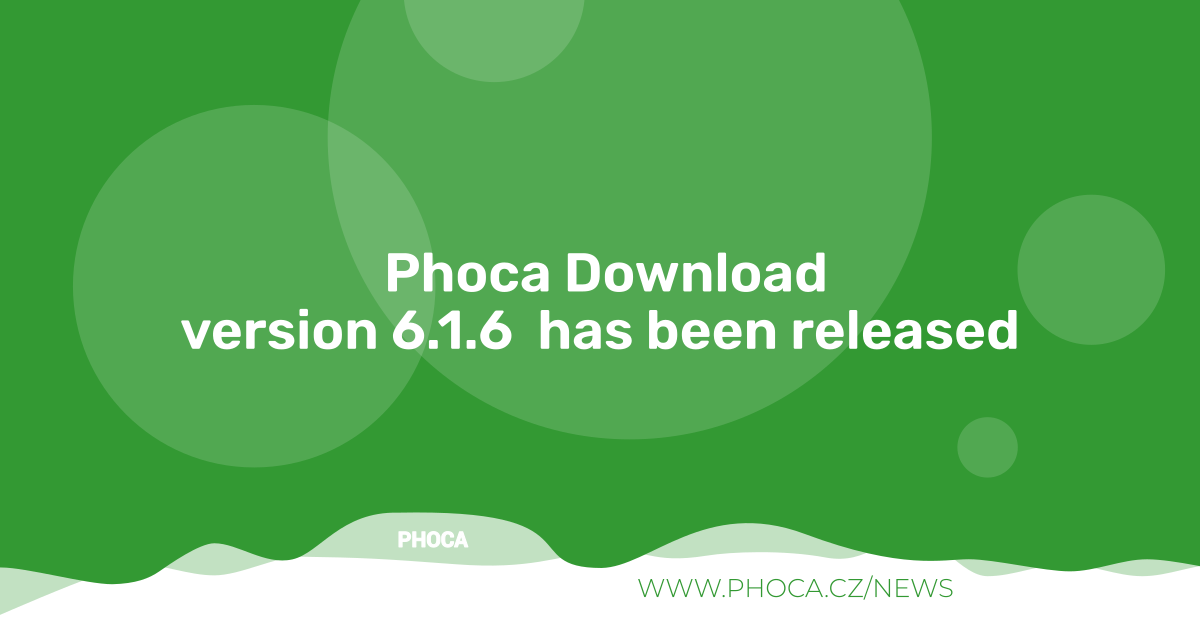
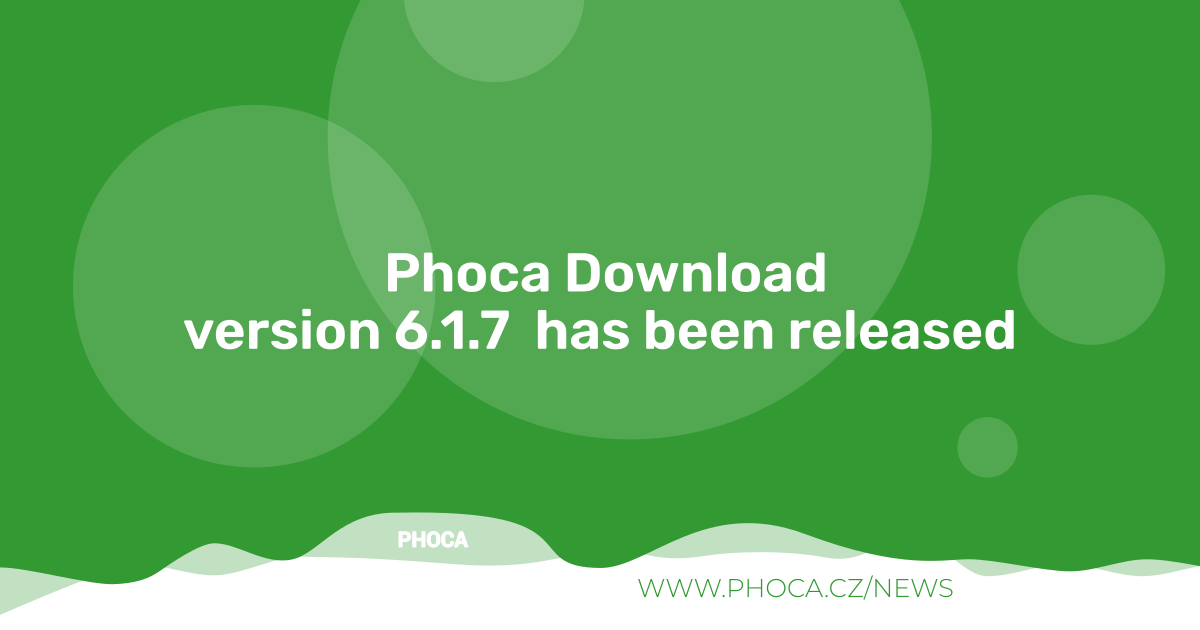
6.1.7

Changed region(s): [[0.1542, 0.4825, 0.8633, 0.573]]

diff --git a/site/views/category/tmpl/categorytree.php b/site/views/category/tmpl/categorytree.php
@@ -1,0 +1,119 @@
+<?php
+defined('_JEXEC') or die('Restricted access');
+
+use Joomla\CMS\HTML\HTMLHelper;
+use Joomla\CMS\Language\Text;
+use Joomla\CMS\Router\Route;
+use Joomla\CMS\Factory;
+
+echo '<div id="phoca-dl-category-box" class="pd-category-view'.$this->t['p']->get('pageclass_sfx').'">';
+echo PhocaDownloadRenderFront::renderHeader(array());
+
+if ($this->t['description'] !== '' && in_array(2, $this->t['display_main_description'])) {
+	echo '<div class="pd-desc">'.$this->t['description'].'</div>';
+}
+
+$category = $this->category[0] ?? null;
+$this->checkRights = 1;
+
+if ($category) {
+	$canAccessCategory = PhocaDownloadAccess::getUserRight(
+		'accessuserid',
+		$category->cataccessuserid,
+		$category->cataccess,
+		$this->t['user']->getAuthorisedViewLevels(),
+		$this->t['user']->get('id', 0),
+		0
+	);
+
+	if ($canAccessCategory === 1) {
+		$this->checkRights = 0;
+		$layout = new PhocaDownloadLayout();
+
+		echo '<div class="pd-category">';
+		echo PhocaDownloadRenderFront::renderSubHeader(array($category->title), '', 'pd-ctitle');
+
+		if ((int) $category->published === 2 && $layout->isValueEditor($category->archived_description)) {
+			echo '<div class="pd-cdesc">'.HTMLHelper::_('content.prepare', $category->archived_description).'</div>';
+		}
+
+		if ($layout->isValueEditor($category->description)) {
+			echo '<div class="pd-cdesc">'.HTMLHelper::_('content.prepare', $category->description).'</div>';
+		}
+
+		$appInput = Factory::getApplication()->getInput();
+		$hiddenSubcategories = $appInput->get('hide_subcategories', null, 'array');
+		$showOnlySubcategories = $appInput->get('show_only_subcategories', null, 'array');
+
+		if ($hiddenSubcategories === null) {
+			$hiddenSubcategories = $this->t['p']->get('hide_subcategories', []);
+		}
+		if ($showOnlySubcategories === null) {
+			$showOnlySubcategories = $this->t['p']->get('show_only_subcategories', []);
+		}
+
+		$normalizeCategoryIds = static function ($categoryIds) {
+			if (!is_array($categoryIds)) {
+				$categoryIds = explode(',', (string) $categoryIds);
+			}
+
+			return array_filter(array_map('intval', $categoryIds), static function ($categoryId) {
+				return $categoryId > 0;
+			});
+		};
+
+		$hiddenSubcategories = array_fill_keys($normalizeCategoryIds($hiddenSubcategories), true);
+		$showOnlySubcategories = array_fill_keys($normalizeCategoryIds($showOnlySubcategories), true);
+		$visibleSubcategories = array_filter(
+			is_array($this->subcategories) ? $this->subcategories : [],
+			static function ($subcategory) use ($hiddenSubcategories, $showOnlySubcategories) {
+				$subcategoryId = (int) $subcategory->id;
+				$isIncluded = empty($showOnlySubcategories) || isset($showOnlySubcategories[$subcategoryId]);
+
+				return $isIncluded && !isset($hiddenSubcategories[$subcategoryId]);
+			}
+		);
+
+		if (!empty($visibleSubcategories)) {
+			echo '<div class="row row-cols-1 row-cols-md-3 g-4 pd-category-subcategories">';
+
+			foreach ($visibleSubcategories as $subcategory) {
+				if (PhocaDownloadAccess::getUserRight(
+					'accessuserid',
+					$subcategory->cataccessuserid,
+					$subcategory->cataccess,
+					$this->t['user']->getAuthorisedViewLevels(),
+					$this->t['user']->get('id', 0),
+					0
+				) !== 1) {
+					continue;
+				}
+
+				echo '<div class="col"><div class="card h-100"><div class="card-body">';
+				echo '<h3 class="card-title"><a href="'.Route::_(PhocaDownloadRoute::getCategoryRoute($subcategory->id, $subcategory->alias)).'">'.htmlspecialchars($subcategory->title, ENT_QUOTES, 'UTF-8').'</a></h3>';
+
+				if ((int) $this->t['p']->get('display_num_doc_secs', 0) === 1) {
+					echo '<p class="card-text"><small>('.(int) $subcategory->numdoc.')</small></p>';
+				}
+
+				echo '</div></div></div>';
+			}
+
+			echo '</div><div class="pd-hr-cb"></div>';
+		}
+
+		include __DIR__.'/default_files.php';
+		if (!empty($this->category)) {
+			include __DIR__.'/default_pagination.php';
+		}
+
+		echo '</div>';
+	} else {
+		echo '<h3>'.Text::_('COM_PHOCADOWNLOAD_CATEGORY').'</h3>';
+		echo '<div class="alert alert-danger">'.Text::_('COM_PHOCADOWNLOAD_NO_RIGHTS_ACCESS_CATEGORY').'</div>';
+	}
+}
+
+echo $this->t['bootstrapmodal'];
+echo '</div><div class="pd-cb">&nbsp;</div>';
+echo PhocaDownloadUtils::getInfo();

diff --git a/site/views/user/tmpl/default_files.php b/site/views/user/tmpl/default_files.php
@@ -312,11 +312,11 @@ if ($this->t['errorcatid'] != '') {
 
 		<tr>
 			<td><strong><?php echo Text::_( 'COM_PHOCADOWNLOAD_FILE_TITLE' ); ?>:</strong></td>
-			<td><input type="text" id="phocadownload-upload-title" name="phocadownloaduploadtitle" value="<?php echo $this->t['formdata']->title ?>"  maxlength="255" class="form-control comment-input" /></td>
+			<td><input type="text" id="phocadownload-upload-title" name="phocadownloaduploadtitle" value="<?php echo htmlspecialchars($this->t['formdata']->title, ENT_QUOTES, 'UTF-8') ?>"  maxlength="255" class="form-control comment-input" /></td>
 		</tr>
 		<tr>
 			<td><strong><?php echo Text::_( 'COM_PHOCADOWNLOAD_DESCRIPTION' ); ?>:</strong></td>
-			<td><textarea id="phocadownload-upload-description" name="phocadownloaduploaddescription" onkeyup="countCharsUpload();" rows="7" class="form-control comment-input pd-comment-input"><?php echo $this->t['formdata']->description ?></textarea></td>
+			<td><textarea id="phocadownload-upload-description" name="phocadownloaduploaddescription" onkeyup="countCharsUpload();" rows="7" class="form-control comment-input pd-comment-input"><?php echo htmlspecialchars($this->t['formdata']->description, ENT_QUOTES, 'UTF-8') ?></textarea></td>
 		</tr>
 		<tr>
 			<td>&nbsp;</td>
@@ -326,11 +326,11 @@ if ($this->t['errorcatid'] != '') {
 
 		<tr>
 			<td><strong><?php echo Text::_( 'COM_PHOCADOWNLOAD_AUTHOR' ); ?>:</strong></td>
-			<td><input type="text" id="phocadownload-upload-author" name="phocadownloaduploadauthor" value="<?php echo $this->t['formdata']->author ?>"  maxlength="255" class="form-control comment-input" /></td>
+			<td><input type="text" id="phocadownload-upload-author" name="phocadownloaduploadauthor" value="<?php echo htmlspecialchars($this->t['formdata']->author, ENT_QUOTES, 'UTF-8') ?>"  maxlength="255" class="form-control comment-input" /></td>
 		</tr>
 		<tr>
 			<td><strong><?php echo Text::_( 'COM_PHOCADOWNLOAD_AUTHOR_EMAIL' ); ?>:</strong></td>
-			<td><input type="text" id="phocadownload-upload-email" name="phocadownloaduploademail" value="<?php echo $this->t['formdata']->email ?>"  maxlength="255" class="form-control comment-input" /></td>
+			<td><input type="text" id="phocadownload-upload-email" name="phocadownloaduploademail" value="<?php echo htmlspecialchars($this->t['formdata']->email, ENT_QUOTES, 'UTF-8') ?>"  maxlength="255" class="form-control comment-input" /></td>
 		</tr>
 
 		<?php
@@ -341,7 +341,7 @@ if ($this->t['errorcatid'] != '') {
 
 		<tr>
 			<td><strong><?php echo Text::_( 'COM_PHOCADOWNLOAD_AUTHOR_WEBSITE' ); ?>:</strong></td>
-			<td><input type="text" id="phocadownload-upload-website" name="phocadownloaduploadwebsite" value="<?php echo $this->t['formdata']->website ?>"  maxlength="255" class="form-control comment-input" /></td>
+			<td><input type="text" id="phocadownload-upload-website" name="phocadownloaduploadwebsite" value="<?php echo htmlspecialchars($this->t['formdata']->website, ENT_QUOTES, 'UTF-8') ?>"  maxlength="255" class="form-control comment-input" /></td>
 		</tr>
 
 		<?php
@@ -352,12 +352,12 @@ if ($this->t['errorcatid'] != '') {
 
 		<tr>
 			<td><strong><?php echo Text::_( 'COM_PHOCADOWNLOAD_LICENSE' ); ?>:</strong></td>
-			<td><input type="text" id="phocadownload-upload-license" name="phocadownloaduploadlicense" value="<?php echo $this->t['formdata']->license ?>"  maxlength="255" class="form-control comment-input" /></td>
+			<td><input type="text" id="phocadownload-upload-license" name="phocadownloaduploadlicense" value="<?php echo htmlspecialchars($this->t['formdata']->license, ENT_QUOTES, 'UTF-8') ?>"  maxlength="255" class="form-control comment-input" /></td>
 		</tr>
 
 		<tr>
 			<td><strong><?php echo Text::_( 'COM_PHOCADOWNLOAD_VERSION' ); ?>:</strong></td>
-			<td><input type="text" id="phocadownload-upload-version" name="phocadownloaduploadversion" value="<?php echo $this->t['formdata']->version ?>"  maxlength="255" class="form-control comment-input" /></td>
+			<td><input type="text" id="phocadownload-upload-version" name="phocadownloaduploadversion" value="<?php echo htmlspecialchars($this->t['formdata']->version, ENT_QUOTES, 'UTF-8') ?>"  maxlength="255" class="form-control comment-input" /></td>
 		</tr>
 
 	</table>

diff --git a/admin/models/fields/phocadownloadcategory.php b/admin/models/fields/phocadownloadcategory.php
@@ -32,7 +32,7 @@ class JFormFieldPhocaDownloadCategory extends FormField
 		return $renderer;
 	}
 
-	private function buildCategoryTree(array &$options, array $categories, string $treeTitle, array $typeFilter, array $langFilter, array $omitIds): void {
+	private function buildCategoryTree(array &$options, array $categories, string $treeTitle, array $typeFilter, array $langFilter, array $omitIds, bool $includeChildren = true): void {
 			foreach ($categories as $category) {
 				  if ($typeFilter && !in_array($category->type, $typeFilter)) continue;
 				  if ($langFilter && !in_array($category->language, $langFilter)) continue;
@@ -43,8 +43,8 @@ class JFormFieldPhocaDownloadCategory extends FormField
 					'text' => $title . ($category->language === '*' ? '' : ' (' . $category->language . ')'),
 					'value' => $category->id,
 				  ];
-				  if ($category->children)
-					$this->buildCategoryTree($options, $category->children, $title, $typeFilter, $langFilter, $omitIds);
+				  if ($includeChildren && $category->children)
+					$this->buildCategoryTree($options, $category->children, $title, $typeFilter, $langFilter, $omitIds, $includeChildren);
 			}
 	}
 
@@ -96,9 +96,22 @@ class JFormFieldPhocaDownloadCategory extends FormField
 			}
 		});
 
-		$rootCategories = array_filter($categories, function($category) {
-		  return !$category->parent_id;
-		});
+		$parentField = (string) $this->element['parentfield'];
+		$parentGroup = (string) $this->element['parentgroup'];
+		$directChildrenOnly = (string) $this->element['directchildren'] === 'true';
+
+		if ($parentField !== '') {
+			$parentCategoryId = (int) $this->form->getValue($parentField, $parentGroup !== '' ? $parentGroup : null);
+			$rootCategories = $parentCategoryId > 0
+				? array_filter($categories, static function ($category) use ($parentCategoryId) {
+					return (int) $category->parent_id === $parentCategoryId;
+				})
+				: [];
+		} else {
+			$rootCategories = array_filter($categories, static function ($category) {
+				return !$category->parent_id;
+			});
+		}
 
 		$options = [];
 		if ($multiple) {
@@ -118,7 +131,7 @@ class JFormFieldPhocaDownloadCategory extends FormField
 		  }
 		}
 
-		$this->buildCategoryTree($options, $rootCategories, '', $typeFilter, $langFilter, $omitIds);
+		$this->buildCategoryTree($options, $rootCategories, '', $typeFilter, $langFilter, $omitIds, !$directChildrenOnly);
 
 		$data = $this->getLayoutData();
 		$data['options'] = $options;

diff --git a/admin/libraries/phocadownload/file/fileupload.php b/admin/libraries/phocadownload/file/fileupload.php
@@ -34,6 +34,12 @@ class PhocaDownloadFileUpload
 
 		$overwriteExistingFiles 	= $paramsC->get( 'overwrite_existing_files', 0 );
 
+			$allowUnsafeUploadAdministrationBool = false;
+		$allowUnsafeUploadAdministration 	= (int)$paramsC->get( 'allow_unsafe_upload_administration', 0 );
+		if ($frontEnd === 0 && $allowUnsafeUploadAdministration === 1) {
+			$allowUnsafeUploadAdministrationBool = true;
+		}
+
 		$app->allowCache(false);
 
 		// Chunk Files
@@ -311,7 +317,7 @@ class PhocaDownloadFileUpload
 				}
 
 
-				if(!File::upload($file['tmp_name'], $filepathImgFinal, false)) {
+				if(!File::upload($file['tmp_name'], $filepathImgFinal, false, $allowUnsafeUploadAdministrationBool)) {
 
 					jexit(json_encode(array( 'jsonrpc' => '2.0', 'result' => 'error', 'code' => 109,
 					'message' => Text::_('COM_PHOCADOWNLOAD_ERROR').': ',
@@ -347,6 +353,13 @@ class PhocaDownloadFileUpload
 	//	$uploadMethod 	= $paramsC->get( 'multiple_upload_method', 4 );
 
 		$overwriteExistingFiles 	= $paramsC->get( 'overwrite_existing_files', 0 );
+
+		$overwriteExistingFiles 	= $paramsC->get( 'overwrite_existing_files', 0 );
+		$allowUnsafeUploadAdministrationBool = false;
+		$allowUnsafeUploadAdministration 	= (int)$paramsC->get( 'allow_unsafe_upload_administration', 0 );
+		if ($frontEnd === 0 && $allowUnsafeUploadAdministration === 1) {
+			$allowUnsafeUploadAdministrationBool = true;
+		}
 
 		$app			= Factory::getApplication();
 		Session::checkToken( 'request' ) or jexit( 'ERROR: '. Text::_('COM_PHOCADOWNLOAD_INVALID_TOKEN'));
@@ -432,7 +445,7 @@ class PhocaDownloadFileUpload
 				}
 			}
 
-			if (!File::upload($file['tmp_name'], $filepath, false)) {
+			if (!File::upload($file['tmp_name'], $filepath, false, $allowUnsafeUploadAdministrationBool)) {
 				if ($return) {
 
 					$app->enqueueMessage( Text::_('COM_PHOCADOWNLOAD_ERROR_UNABLE_TO_UPLOAD_FILE'), 'error');

diff --git a/site/views/category/tmpl/default_files.php b/site/views/category/tmpl/default_files.php
@@ -271,7 +271,7 @@ if (!empty($this->files)) {
 			if ($v->license != '') {
 				if ($v->license_url != '') {
 					$pdLicense .= '<div class="pd-license-txt pd-col1">'.Text::_('COM_PHOCADOWNLOAD_LICENSE').':</div>';
-					$pdLicense .= '<div class="pd-fl-m pd-col2"><a href="'.$v->license_url.'" target="_blank">'.$v->license.'</a></div>';
+					$pdLicense .= '<div class="pd-fl-m pd-col2"><a href="'.htmlspecialchars($v->license_url, ENT_QUOTES, 'UTF-8').'" target="_blank">'.$v->license.'</a></div>';
 				} else {
 					$pdLicense .= '<div class="pd-license-txt pd-col1">'.Text::_('COM_PHOCADOWNLOAD_LICENSE').':</div>';
 					$pdLicense .= '<div class="pd-fl-m pd-col2">'.$v->license.'</div>';
@@ -283,7 +283,8 @@ if (!empty($this->files)) {
 			if ($v->author != '') {
 				if ($v->author_url != '') {
 					$pdAuthor .= '<div class="pd-author-txt pd-col1">'.Text::_('COM_PHOCADOWNLOAD_AUTHOR').':</div>';
-					$pdAuthor .= '<div class="pd-fl-m pd-col2"><a href="'.$v->author_url.'" target="_blank">'.$v->author.'</a></div>';
+					//$pdAuthor .= '<div class="pd-fl-m pd-col2"><a href="'.$v->author_url.'" target="_blank">'.$v->author.'</a></div>';
+					$pdAuthor .= '<div class="pd-fl-m pd-col2"><a href="'.htmlspecialchars($v->author_url, ENT_QUOTES, 'UTF-8').'" target="_blank" rel="noopener noreferrer">'.htmlspecialchars($v->author, ENT_QUOTES, 'UTF-8').'</a></div>';
 				} else {
 					$pdAuthor .= '<div class="pd-author-txt pd-col1">'.Text::_('COM_PHOCADOWNLOAD_AUTHOR').':</div>';
 					$pdAuthor .= '<div class="pd-fl-m pd-col2">'.$v->author.'</div>';

diff --git a/site/views/file/tmpl/default.php b/site/views/file/tmpl/default.php
@@ -165,7 +165,7 @@ if (!empty($this->file[0])) {
 			if ($v->license != '') {
 				if ($v->license_url != '') {
 					$pdLicense .= '<div class="pd-license-txt">'.Text::_('COM_PHOCADOWNLOAD_LICENSE').':</div>';
-					$pdLicense .= '<div class="pd-fl-m"><a href="'.$v->license_url.'" target="_blank">'.$v->license.'</a></div>';
+					$pdLicense .= '<div class="pd-fl-m"><a href="'.htmlspecialchars($v->license_url, ENT_QUOTES, 'UTF-8').'" target="_blank">'.$v->license.'</a></div>';
 				} else {
 					$pdLicense .= '<div class="pd-license-txt">'.Text::_('COM_PHOCADOWNLOAD_LICENSE').':</div>';
 					$pdLicense .= '<div class="pd-fl-m">'.$v->license.'</div>';
@@ -176,7 +176,8 @@ if (!empty($this->file[0])) {
 			if ($v->author != '') {
 				if ($v->author_url != '') {
 					$pdAuthor .= '<div class="pd-author-txt">'.Text::_('COM_PHOCADOWNLOAD_AUTHOR').':</div>';
-					$pdAuthor .= '<div class="pd-fl-m"><a href="'.$v->author_url.'" target="_blank">'.$v->author.'</a></div>';
+					//$pdAuthor .= '<div class="pd-fl-m"><a href="'.$v->author_url.'" target="_blank">'.$v->author.'</a></div>';
+					$pdAuthor .= '<div class="pd-fl-m"><a href="'.htmlspecialchars($v->author_url, ENT_QUOTES, 'UTF-8').'" target="_blank" rel="noopener noreferrer">'.htmlspecialchars($v->author, ENT_QUOTES, 'UTF-8').'</a></div>';
 				} else {
 					$pdAuthor .= '<div class="pd-author-txt">'.Text::_('COM_PHOCADOWNLOAD_AUTHOR').':</div>';
 					$pdAuthor .= '<div class="pd-fl-m">'.$v->author.'</div>';

diff --git a/admin/libraries/phocadownload/utils/utils.php b/admin/libraries/phocadownload/utils/utils.php
@@ -104,9 +104,18 @@ class PhocaDownloadUtils
 		}
 
 	}
-	public static function isURLAddress($url) {
+	/*public static function isURLAddress($url) {
 		return preg_match('|^http(s)?://[a-z0-9-]+(.[a-z0-9-]+)*(:[0-9]+)?(/.*)?$|i', $url);
-	}
+	}*/
+
+	public static function isURLAddress($url) {
+		//return preg_match('|^http(s)?://[a-z0-9-]+(.[a-z0-9-]+)*(:[0-9]+)?(/.*)?$|i', $url);
+		// Reject control chars, whitespace, quotes, angle brackets, backticks
+		if (!is_string($url) || $url === '' || preg_match('/[\x00-\x20\x7f"\'<>`]/', $url)) {
+			return false;
+		}
+		return (bool) preg_match('|^https?://[a-z0-9-]+(\.[a-z0-9-]+)*(:[0-9]+)?(/[^\x00-\x20\x7f"\'<>`]*)?$|i', $url);
+ 	}
 
 	public static  function setQuestionmarkOrAmp($url) {
 		$isThereQMR = false;

diff --git a/site/models/user.php b/site/models/user.php
@@ -466,7 +466,8 @@ class PhocaDownloadModelUser extends BaseDatabaseModel
 
 		$data['userid']			= $user->id;
 		$data['author_email']	= $data['email'];
-		$data['author_url']		= $data['website'];
+		//$data['author_url']		= $data['website'];
+		$data['author_url']		= PhocaDownloadUtils::isURLAddress($data['website']) ? $data['website'] : '';
 		$data['access']			= $default_access;
 		$data['token']			= PhocaDownloadUtils::getToken($data['title'].$filename);
 		//$data['token']			= PhocaDownloadUtils::getToken($data['title'].$data['filename']);

diff --git a/admin/libraries/phocadownload/access/access.php b/admin/libraries/phocadownload/access/access.php
@@ -170,7 +170,7 @@ class PhocaDownloadAccess
 				break;
 			}
 		}
-		return (boolean)$rightGroupAccess;
+		return (bool)$rightGroupAccess;
 	}
 }
 ?>

diff --git a/README.MD b/README.MD
@@ -87,7 +87,7 @@ If you need additional information beyond this GitHub repository, further docume
 ### Version (Joomla! 5.x - no longer supported)
 5.1.3
 ### Version (Joomla! 6.x)
-6.1.6
+6.1.7
 
 ### License
 
